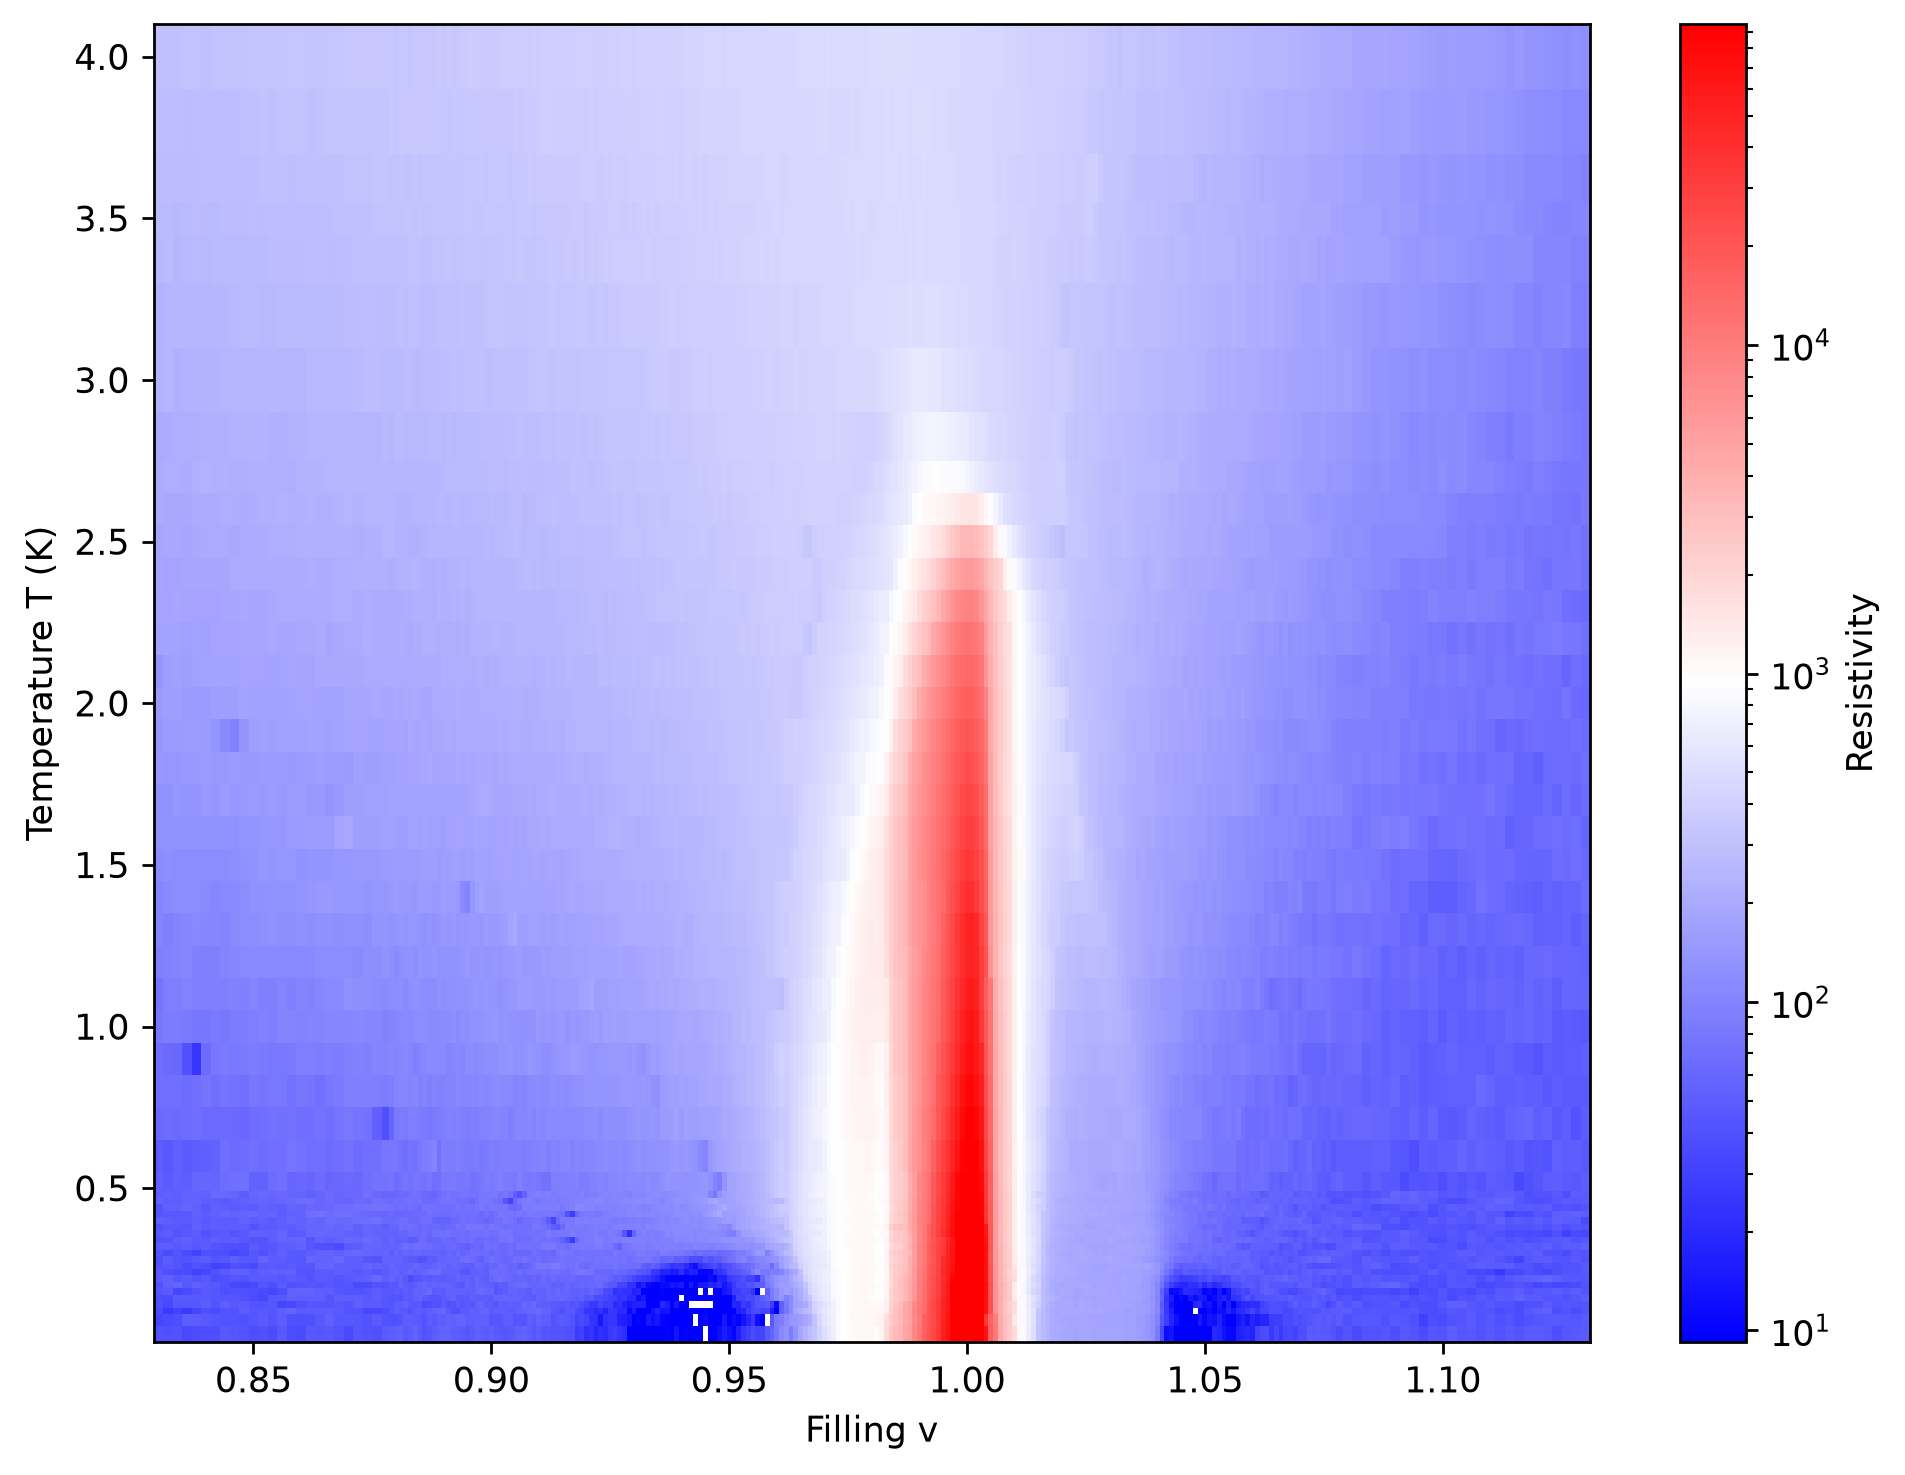
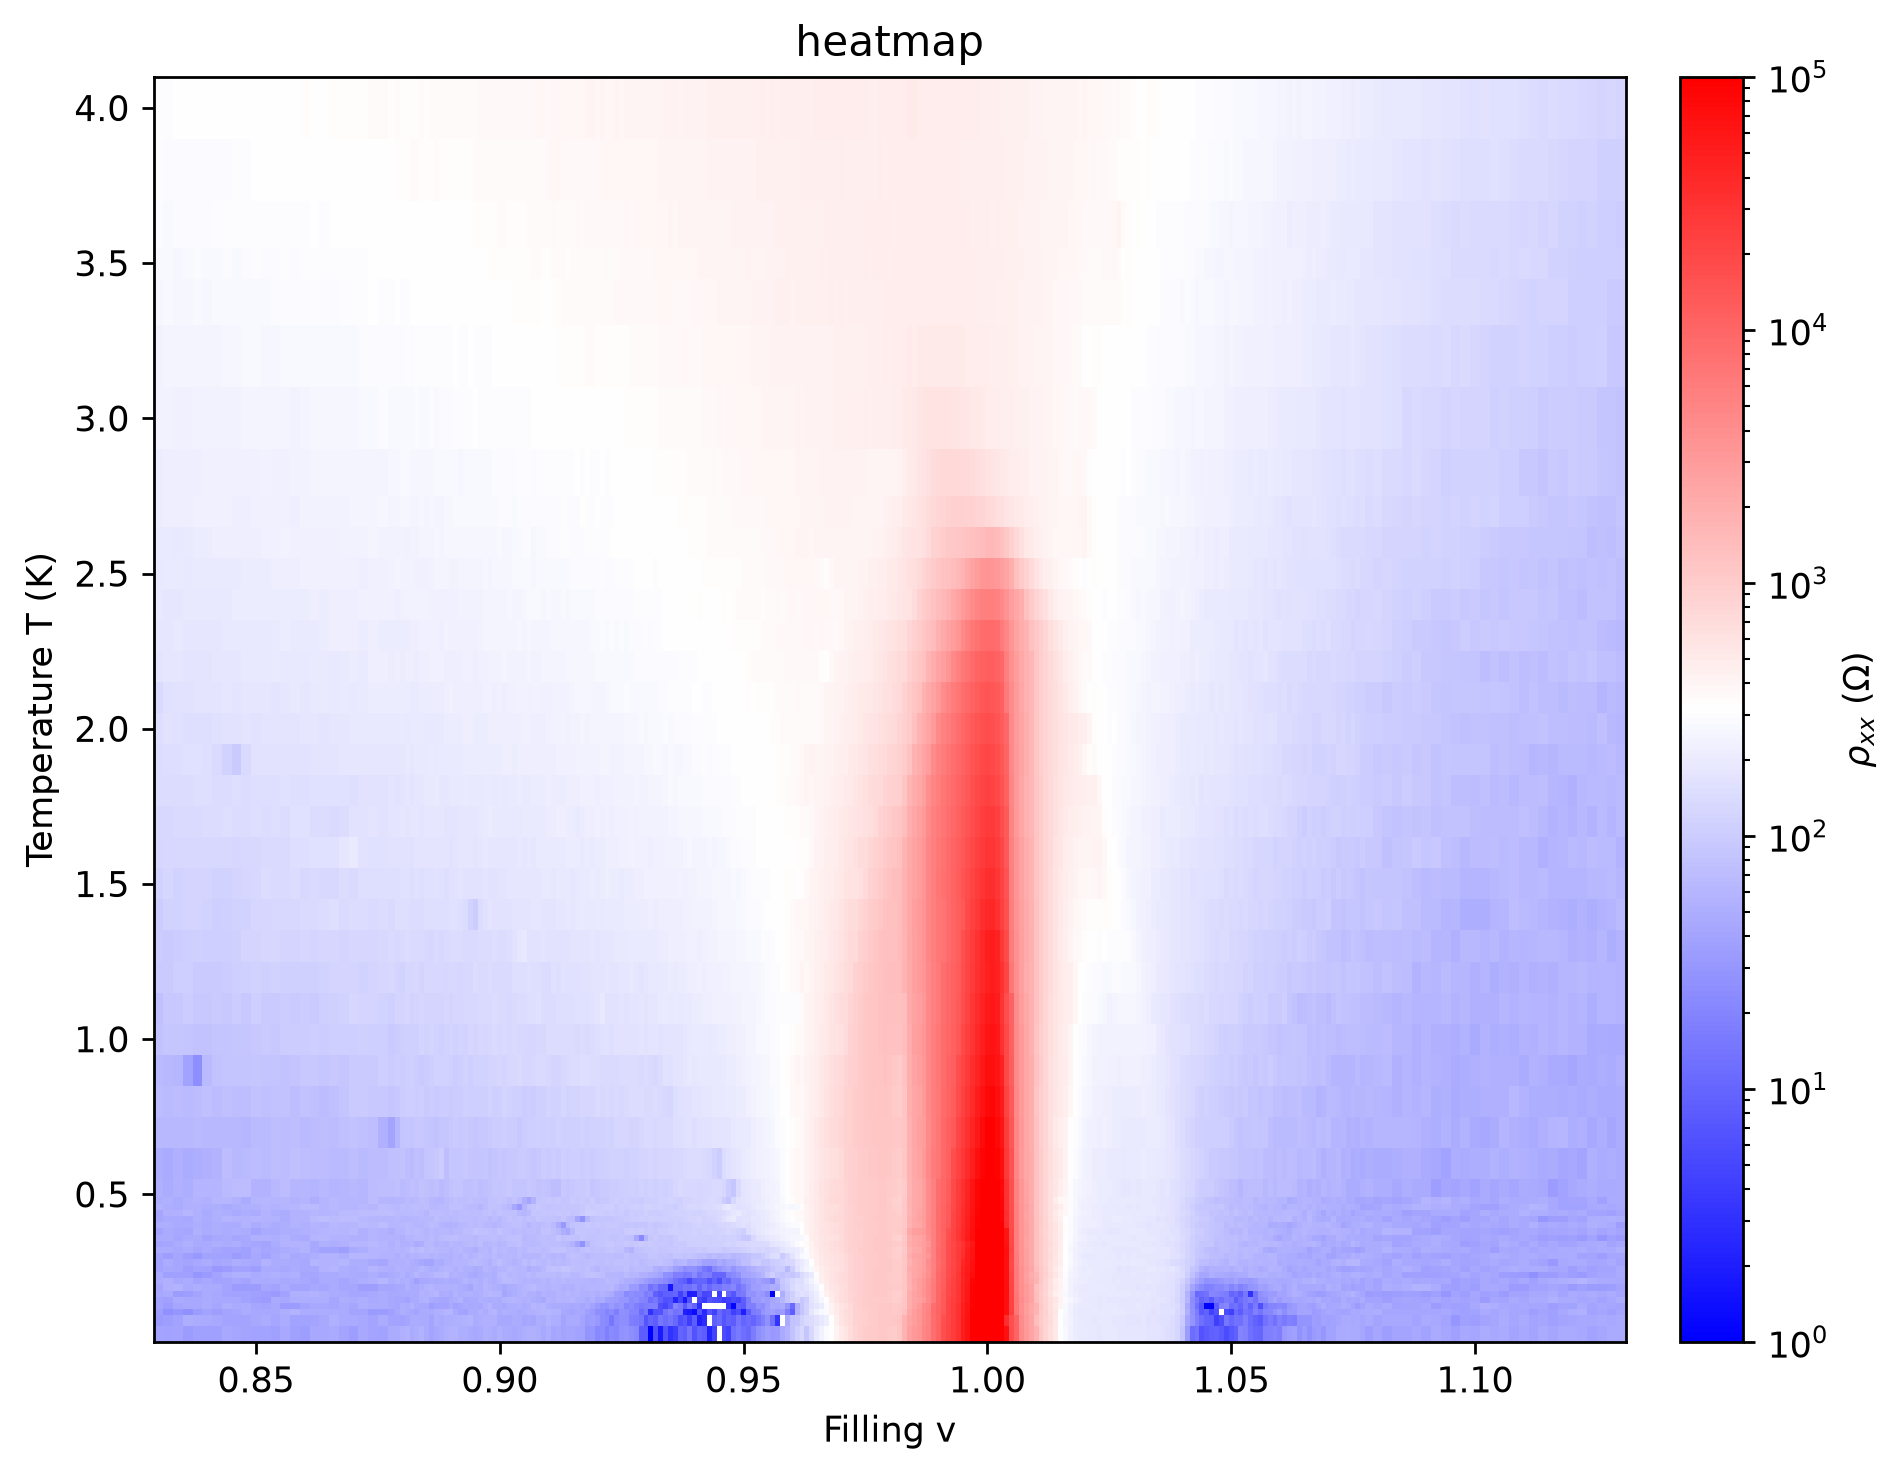
vibe coded heatmaps and plotting candidate transition temperatures

diff --git a/src/moire/draw_heatmaps.py b/src/moire/draw_heatmaps.py
@@ -7,6 +7,7 @@ import os
 import numpy as np 
 
 from moire.phase_diagram_helpers import centers_to_edges
+from moire.extract_behaviors import extract_metallic_transitions, extract_upturns
 
 
 
@@ -19,16 +20,33 @@ from moire.phase_diagram_helpers import centers_to_edges
     # and later just make it adaptive (left phase -> right phase) legends
 
 
-def draw_heatmap(row, col, data, OUT=None, name=None, save=False,
+def draw_heatmap(col, row, data, OUT=None, name="heatmap", save=False,
     xlabel="Filling v", ylabel="Temperature T (K)", cbar_label="Resistivity"):
 
-    vmin, vmax = np.nanpercentile(data, [1, 99])
+    # Log rounded vmin & vmax
+    vmin_raw, vmax_raw = np.nanpercentile(data[data > 0], [1, 99])
+
+    emin = int(np.floor(np.log10(vmin_raw)))
+    emax = int(np.ceil(np.log10(vmax_raw)))
+
+    vmin = 10**emin
+    vmax = 10**emax
+
     fig, ax = plt.subplots(figsize=(8, 6))
-    im = ax.pcolormesh(row, col, data, cmap="bwr", shading="nearest", norm = LogNorm(vmin = vmin, vmax = vmax))
+    im = ax.pcolormesh(col, row, data, cmap="bwr", shading="nearest", norm = LogNorm(vmin = vmin, vmax = vmax))
 
-    cbar = fig.colorbar(im, ax=ax)
+    tick_exps = np.arange(emin, emax + 1)
+    ticks = 10**tick_exps
+
+    # Drawing colorbar
+    cbar = fig.colorbar(im, ax=ax, orientation="vertical", location="right", pad=0.03)
+    cbar.ax.yaxis.set_major_formatter(LogFormatterMathtext())    
+    
     cbar.set_label(cbar_label, rotation=90)
+    cbar.set_ticks(ticks)
+    cbar.set_label(r"$\rho_{xx}$ ($\Omega$)")
 
+    # Axis titles and labels 
     ax.set_xlabel(xlabel)
     ax.set_ylabel(ylabel)
     ax.set_title(name)
@@ -36,33 +54,66 @@ def draw_heatmap(row, col, data, OUT=None, name=None, save=False,
     fig.tight_layout()
 
     if save:
-        if OUT is None:
-            raise ValueError("OUT must be provided when save=True")
-
         OUT = Path(OUT)
         OUT.mkdir(parents=True, exist_ok=True)
-
-        name = "heatmap" if name is None else name
-        path = OUT / f"{name}.png"
-        fig.savefig(path, dpi=250, bbox_inches="tight")
+        fig.savefig(OUT / f"{name}_heatmap.png", dpi=250, bbox_inches="tight")
 
     return fig, ax, im
 
 
 
-def draw_heatmap_candidates(ax, candidates, OUT, name = "heatmap_candidates", save = True):
-    # plot the points 
 
+def draw_heatmap_candidates(col, row, data, OUT = None, name = "heatmap_candidates", save = True):
 
+    fig, ax, im = draw_heatmap(col, row, data, save=False, name=name)
 
-    # save to path 
+    styles = {
+        "AFM":       dict(color="red",    marker="^", label="AFM left"),
+        "Metal":     dict(color="green",  marker="o", label="Metal left"),
+        "Insulator": dict(color="yellow", marker="o", label="Insulator left"),
+    }
+
+    used_labels = set()
+
+    for j, filling in enumerate(col):
+        linecut = data[:, j]
+
+        candidates = extract_upturns(row, linecut)
+        candidates = extract_metallic_transitions(row, linecut, candidates)
+
+        for cand in candidates:
+            phase_left = cand.get("phase_left")
+            T_transition = cand.get("T")
+
+            if phase_left not in styles:
+                continue
+
+            style = styles[phase_left].copy()
+            label = style["label"]
+
+            if label in used_labels:
+                style["label"] = None
+            else:
+                used_labels.add(label)
+
+            ax.scatter(
+                filling,
+                T_transition,
+                s=35,
+                edgecolor="black",
+                linewidth=0.4,
+                zorder=5,
+                **style
+            )
+
+    ax.legend(frameon=True, fontsize=8)
 
     if save:
-        if not os.path.exists(OUT):
-            os.mkdir(OUT)
+        if OUT is None:
+            raise ValueError("OUT must be provided when save=True")
 
-        path = OUT / Path(name + ".png")
-        fig.savefig(path, dpi=250, bbox_inches='tight')
+        OUT = Path(OUT)
+        OUT.mkdir(parents=True, exist_ok=True)
+        fig.savefig(OUT / f"{name}_heatmap_candidates.png", dpi=250, bbox_inches="tight")
 
-
-    return None 
+    return fig, ax, im

diff --git a/scripts/generate_heatmaps.py b/scripts/generate_heatmaps.py
@@ -3,13 +3,22 @@ from pathlib import Path
 
 sys.path.insert(0, str(Path(__file__).resolve().parents[1] / "src"))
 
-from moire.draw_heatmaps import draw_heatmap
+from moire.draw_heatmaps import draw_heatmap, draw_heatmap_candidates
 from moire.io import load_field
 
+
+FIELDS = [87, 96, 99, 103, 74, 87, 96.2, 151, 176]
 IN = Path("source_data")
 OUT = Path("output/heatmaps/diagnostic")
 
-T, nu, R = load_field(103, IN)
 
-draw_heatmap(nu, T, R, OUT, save = True)
+
+for field in FIELDS:
+    T, nu, R = load_field(field, IN)
+    name = f"E = {field}mV"
+    draw_heatmap_candidates(nu, T, R, OUT = OUT, save = True, name = name)
+
+
+
+
 

diff --git a/scripts/generate_linecut_plots.py b/scripts/generate_linecut_plots.py
@@ -11,4 +11,5 @@ FIELDS = [87, 96, 99, 103, 74, 87, 96.2, 151, 176]
 
 for field in FIELDS:
     plot_all_linecuts(field, 20, IN, OUT)
+    
 